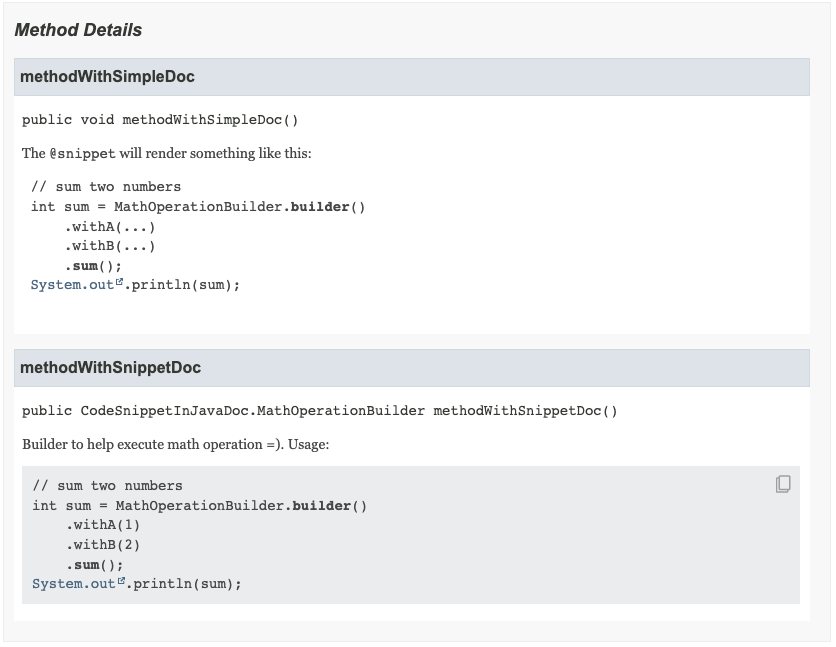
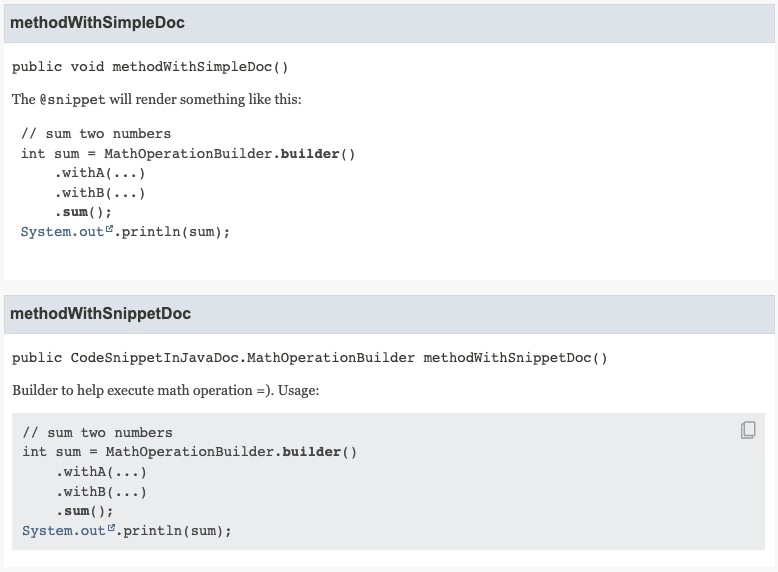
update snippet example

diff --git a/java-18/CodeSnippetInJavaDoc.java b/java-18/CodeSnippetInJavaDoc.java
@@ -20,13 +20,12 @@ public class CodeSnippetInJavaDoc {
 
 	/**
 	* Builder to help execute math operation =).
-	*
 	* Usage:
 	* {@snippet :
 	* // sum two numbers
 	* int sum = MathOperationBuilder.builder()  // @highlight substring="builder"
-	*     .withA(1)                             // @replace regex="\\d+" replacement="..."
-	*     .withB(2)                             // @replace regex="\\d+" replacement="..."
+	*     .withA(1)                             // @replace regex="\d+" replacement="..."
+	*     .withB(2)                             // @replace regex="\d+" replacement="..."
 	*     .sum();                               // @highlight substring="sum"
 	* System.out.println(sum);                  // @link substring="System.out" target="System#out"
 	* }
